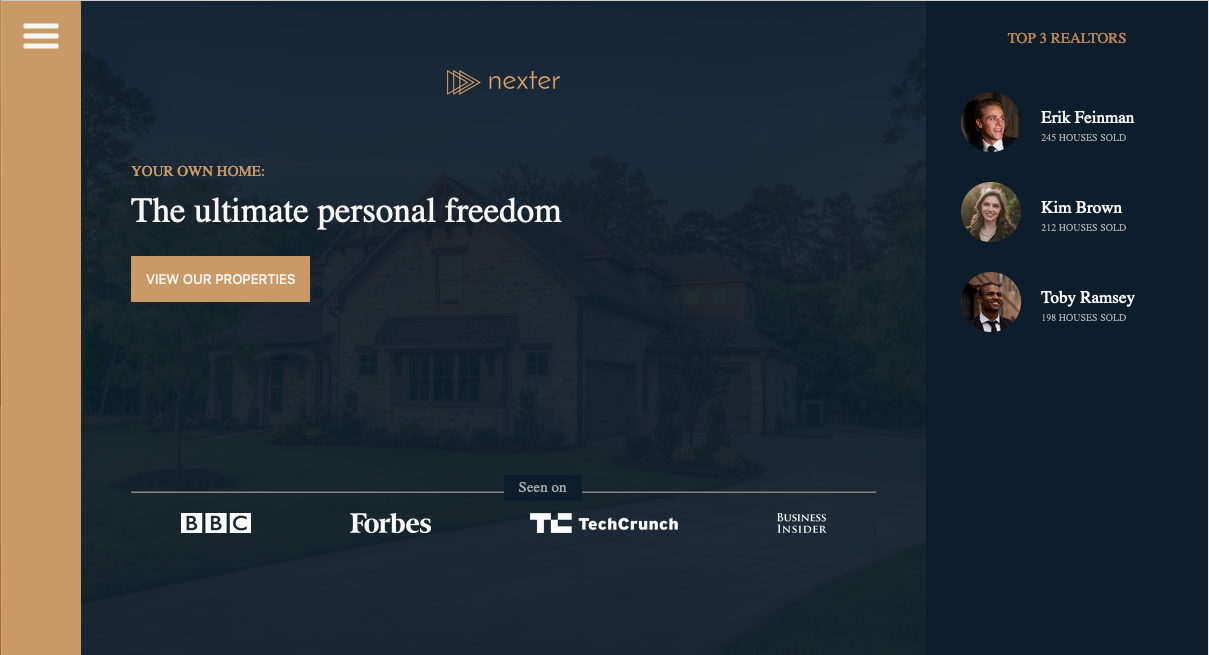
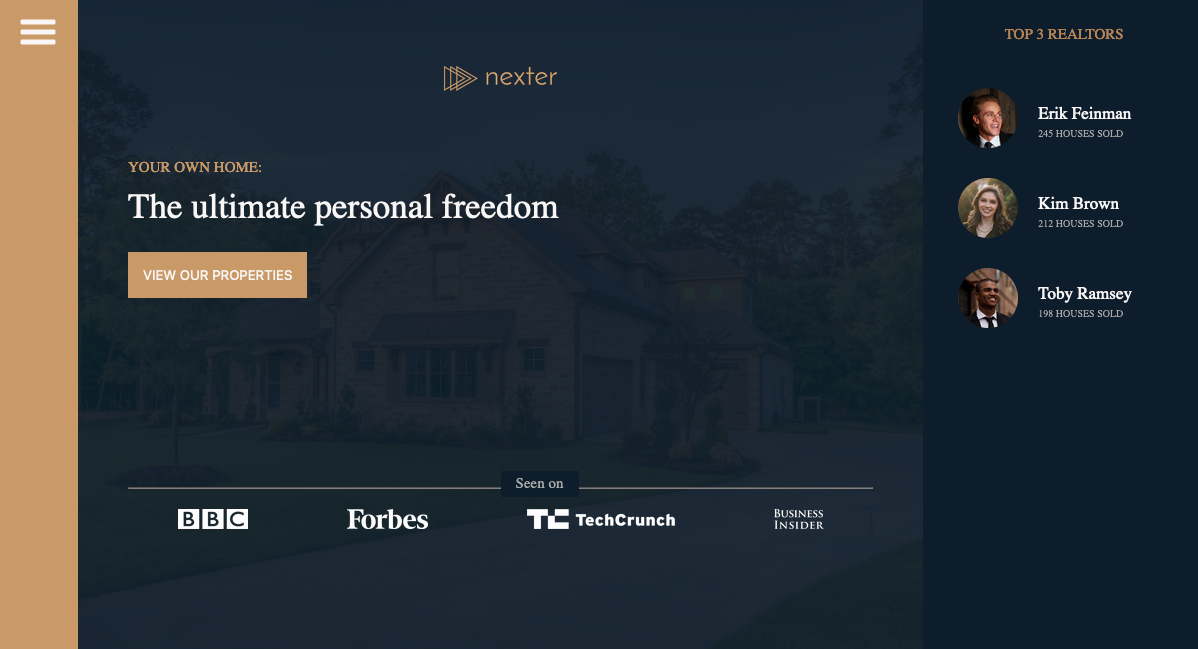
refactor: landing pg height, typography

diff --git a/public/styles.css b/public/styles.css
@@ -63,8 +63,23 @@ body {
   color: rgb(240, 240, 240);
   color: var(--white);
 }
+.name-text {
+  font-size: 6rem;
+}
+.role-text {
+  font-size: 4rem;
+}
+.description-text {
+  font-size: 2rem;
+}
+.section-heading {
+  font-size: 2.5rem;
+  font-weight: 200;
+  text-transform: uppercase;
+  letter-spacing: .4rem;
+}
 .landing-page {
-  height: 100vh;
+  height: 95vh;
   display: flex;
 }
 .waterfall {
@@ -74,7 +89,7 @@ body {
   border-radius: .5rem;
   box-shadow: 0px 0px 0.5rem 0.25rem rgb(240, 240, 240);
   box-shadow: 0px 0px 0.5rem 0.25rem var(--white);
-  margin: 5rem 8rem;
+  margin: 5rem 8rem 0rem 8rem;
 }
 .landing-page_text-container {
   padding: 15rem 3rem 0rem 3rem;
@@ -82,15 +97,6 @@ body {
   flex-direction: column;
   justify-content: flex-start;
   align-items: center;
-}
-.name-text {
-  font-size: 6rem;
-}
-.role-text {
-  font-size: 4rem;
-}
-.description-text {
-  font-size: 2rem;
 }
 .nav {
   position: fixed;

diff --git a/src/layout/_landing-page.css b/src/layout/_landing-page.css
@@ -1,5 +1,5 @@
 .landing-page {
-  height: 100vh;
+  height: 95vh;
   display: flex;
 }
 
@@ -8,7 +8,7 @@
   border: .5rem solid var(--white);
   border-radius: .5rem;
   box-shadow: 0px 0px 0.5rem 0.25rem var(--white);
-  margin: 5rem 8rem;
+  margin: 5rem 8rem 0rem 8rem;
 }
 
 .landing-page_text-container {
@@ -19,14 +19,3 @@
   align-items: center;
 }
 
-.name-text {
-  font-size: 6rem;
-}
-
-.role-text {
-  font-size: 4rem;
-}
-
-.description-text {
-  font-size: 2rem;
-}

diff --git a/src/base/_typography.css b/src/base/_typography.css
@@ -21,3 +21,22 @@ body {
 .nav_link:hover {
   color: var(--white);
 }
+
+.name-text {
+  font-size: 6rem;
+}
+
+.role-text {
+  font-size: 4rem;
+}
+
+.description-text {
+  font-size: 2rem;
+}
+
+.section-heading {
+  font-size: 2.5rem;
+  font-weight: 200;
+  text-transform: uppercase;
+  letter-spacing: .4rem;
+}
